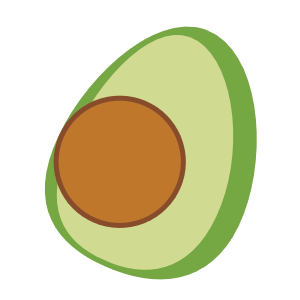
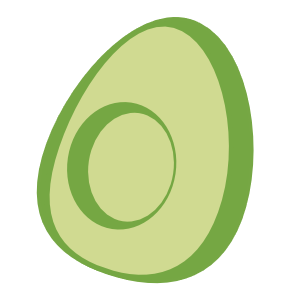
update avocado graphic

diff --git a/docs/game.js b/docs/game.js
@@ -284,6 +284,6 @@ Module.expectedDataFileDownloads++;
     }
 
   }
-  loadPackage({"package_uuid":"ff1fe485-cf5f-488e-8ecf-d9f1abc50141","remote_package_size":8668333,"files":[{"filename":"/game.love","crunched":0,"start":0,"end":8668333,"audio":false}]});
+  loadPackage({"package_uuid":"968678cc-223c-42b2-ac73-97270846f4a0","remote_package_size":8668579,"files":[{"filename":"/game.love","crunched":0,"start":0,"end":8668579,"audio":false}]});
 
 })();
